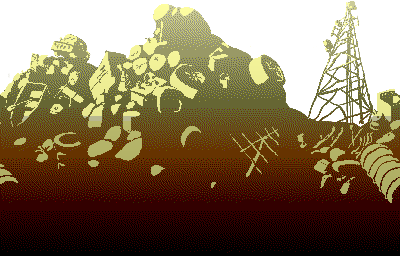
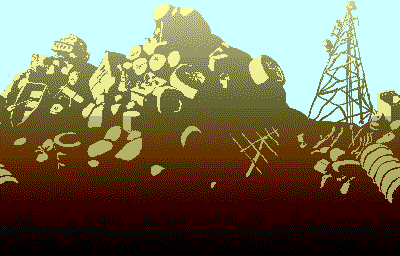
Bake sky into landfill background

Changed region(s): [[0.0, 0.0, 1.0, 0.5]]

diff --git a/main/modes/games/bigbug/mode_bigbug.c b/main/modes/games/bigbug/mode_bigbug.c
@@ -363,7 +363,7 @@ static void bb_BackgroundDrawCallback(int16_t x, int16_t y, int16_t w, int16_t h
                 {
                     TURBO_SET_PIXEL(iX, iY, gradientPx[gridx]);
                 }
-                else if (drawS2row && cTransparent != surface2px[s2idx])
+                else if (drawS2row) // No transparency check
                 {
                     TURBO_SET_PIXEL(iX, iY, surface2px[s2idx]);
                 }
